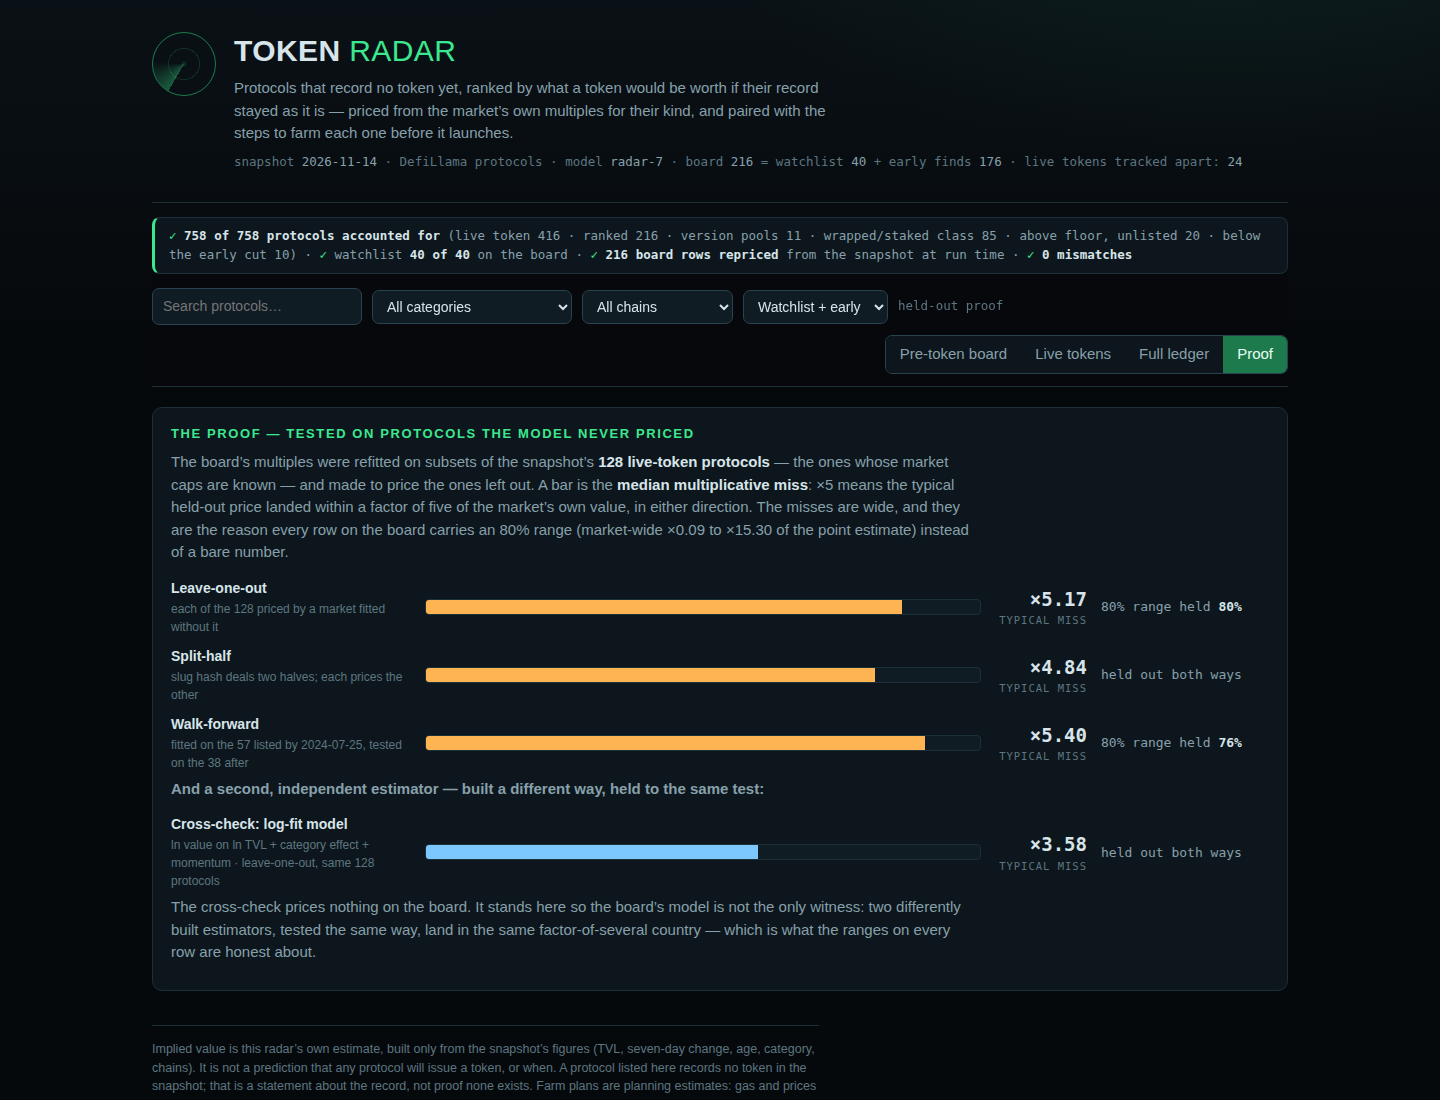
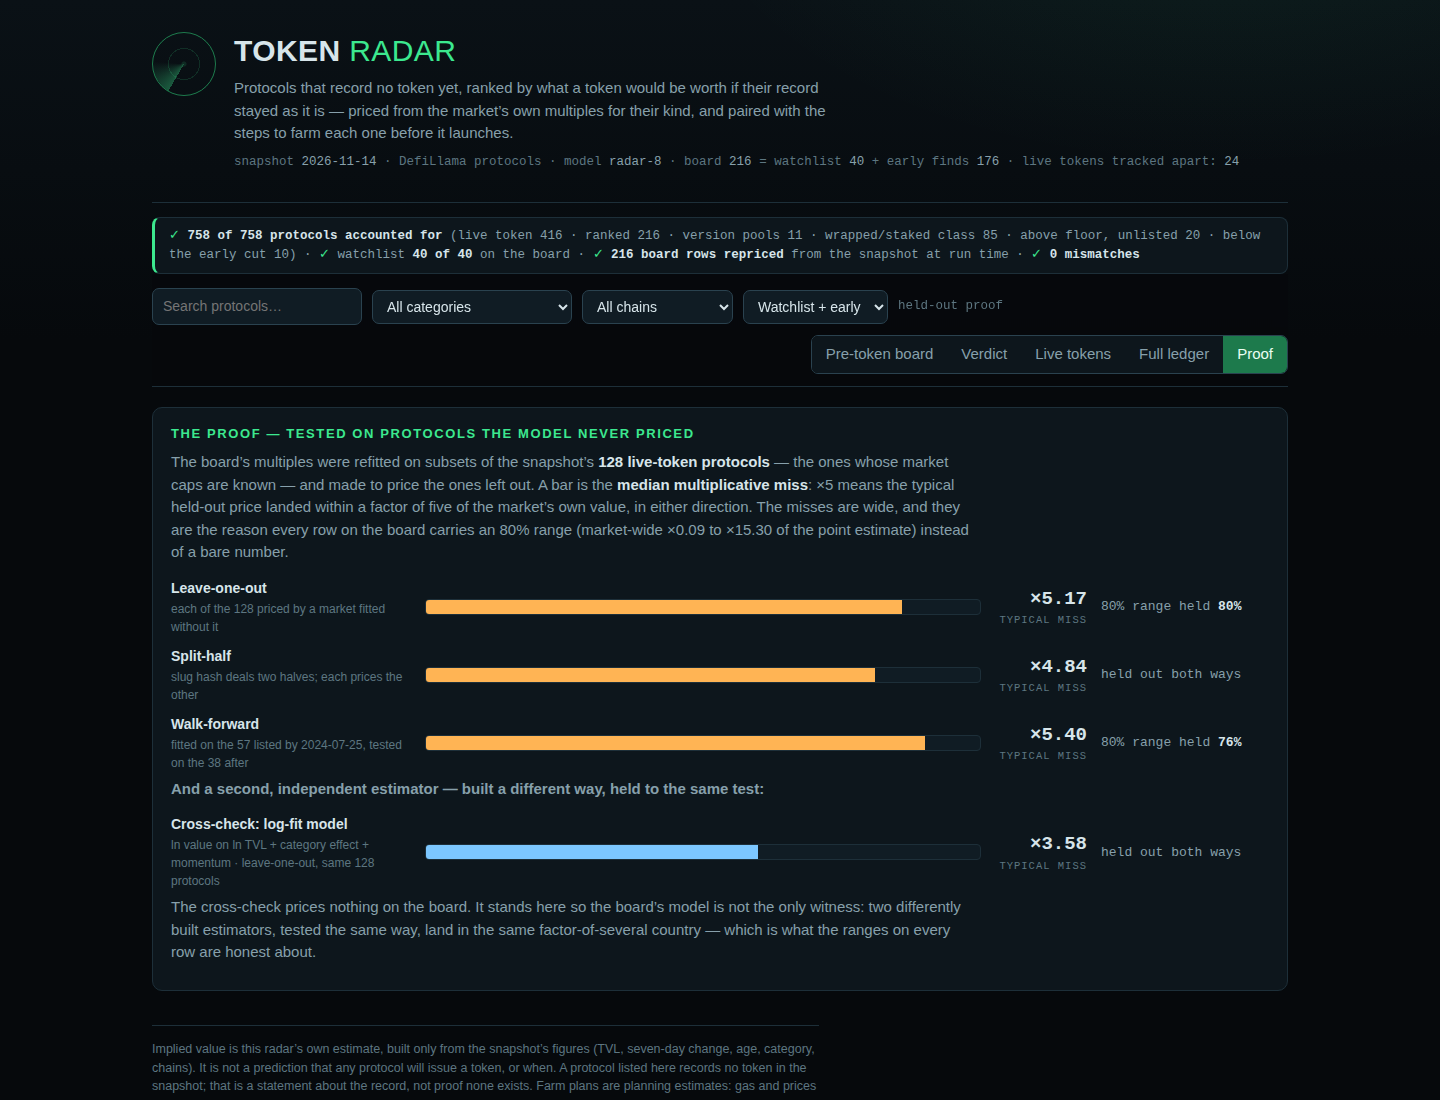
v7 (radar-8): verdict screenshot returns, ledger leaves the shot set

diff --git a/dashboard/app.js b/dashboard/app.js
@@ -1,7 +1,8 @@
 // Token Radar's dashboard. It reads window.RADAR (written beside dashboard/ by main.ts) and renders
-// five views from it: the ranked pre-token board, a detail view for every protocol on it, the
+// six views from it: the ranked pre-token board, a detail view for every protocol on it, the
 // live-token table whose market values anchor the model's multiples, a full ledger accounting
-// for every protocol in the snapshot, and a proof panel that charts the model's held-out tests.
+// for every protocol in the snapshot, a proof panel that charts the model's held-out tests, and
+// a verdict view that gives the board's top pick and its farm verdict a screen of their own.
 // Sortable, filterable, and rendered entirely from data.js: no fetch, no network, nothing leaves
 // the page.
 (function () {
@@ -180,6 +181,7 @@
       '<span class="count" id="count"></span>' +
       '<div class="tabs" role="group" aria-label="Views">' +
       '<button id="tab-board" aria-pressed="' + (state.view === 'board') + '">Pre-token board</button>' +
+      '<button id="tab-verdict" aria-pressed="' + (state.view === 'verdict') + '">Verdict</button>' +
       '<button id="tab-live" aria-pressed="' + (state.view === 'live') + '">Live tokens</button>' +
       '<button id="tab-ledger" aria-pressed="' + (state.view === 'ledger') + '">Full ledger</button>' +
       '<button id="tab-proof" aria-pressed="' + (state.view === 'proof') + '">Proof</button></div></div>';
@@ -353,6 +355,51 @@
     if (c) c.textContent = 'held-out proof';
   }
 
+  /* ---------- verdict view: the top pick's farm verdict, on its own screen ---------- */
+  function verdictView() {
+    var r = rows[0];
+    if (!r) { boardView(); return; }
+    var sunk = r.farm_sunk_cost_usd < 10 ? '$' + r.farm_sunk_cost_usd.toFixed(2) : fmtUsd(r.farm_sunk_cost_usd);
+    var clears = r.implied_value_usd >= r.farm_breakeven_usd;
+    var body = '<section class="vhero">' +
+      '<div class="hero-k">The farm verdict \u2014 board #1 of ' + rows.length + ', on its own screen</div>' +
+      '<div class="vname">' + esc(r.name) +
+      (r.watchlist ? '<span class="badge wl">WATCHLIST</span>' : '<span class="badge early">EARLY FIND</span>') + '</div>' +
+      '<div class="hero-cat">' + esc(r.category || 'Uncategorised') + ' \u00b7 TVL ' + fmtUsd(r.tvl_usd) + ' \u00b7 ' +
+      fmtAge(r.age_days) + ' with no token \u00b7 on ' + esc(r.chains.join(', ') || 'no chain recorded') + '</div>' +
+      '<div class="vstatement">The implied value <span class="' + (clears ? 'pos' : 'neg') + '">' + barWord(r) + '</span>.</div>' +
+      '<div class="hero-grid"><div class="hero-main">' +
+      '<div class="hero-val">' + fmtUsd(r.implied_value_usd) + '</div>' +
+      '<div class="hero-full">implied token value ' + fmtFull(r.implied_value_usd) + ' \u00b7 80% held-out range ' +
+      fmtUsd(r.implied_low_usd) + ' \u2013 ' + fmtUsd(r.implied_high_usd) + '</div></div>' +
+      '<div class="hero-side">' +
+      '<div class="hero-odds"><span>Launch odds <b>' + fmtOdds(r.launch_odds) + '</b></span>' +
+      '<span class="obar big"><i style="width:' + Math.round(r.launch_odds * 100) + '%"></i></span>' +
+      '<span class="hero-ev">expected value <b>' + fmtUsd(r.expected_value_usd) + '</b></span></div>' +
+      '<div class="hero-full">expected value ' + fmtFull(r.expected_value_usd) + ' = implied \u00d7 odds \u00b7 the position\u2019s ' +
+      'capital is the farmer\u2019s to keep and is never counted as a cost</div>' +
+      '</div></div>' +
+      '<div class="cards vcards">' +
+      '<div class="card"><div class="k">Hours of work</div><div class="v">' + r.farm_hours + ' h</div><div class="s">spread over the plan below</div></div>' +
+      '<div class="card"><div class="k">Sunk cost</div><div class="v">' + sunk + '</div><div class="s">gas and fees \u2014 all that is gone if nothing launches</div></div>' +
+      '<div class="card"><div class="k">Capital kept</div><div class="v">' + fmtUsd(r.farm_capital_usd) + '</div><div class="s">principal in the position, yours to withdraw</div></div>' +
+      '<div class="card"><div class="k">Break-even launch</div><div class="v">' + fmtUsd(r.farm_breakeven_usd) + '</div><div class="s">the launch value at which the plan breaks even</div></div>' +
+      '<div class="card"><div class="k">Expected capture</div><div class="v">' + fmtUsd(r.farm_ev_usd) + '</div><div class="s">at a ' + (DATA.farm_capture * 100).toFixed(2) + '% farmer capture, odds-weighted</div></div>' +
+      '<div class="card"><div class="k">Per hour expected</div><div class="v">' + fmtUsd(r.farm_ev_per_hour) + '</div><div class="s">expected capture over ' + r.farm_hours + ' h of work</div></div>' +
+      '</div>' +
+      '<p class="vcaveat">The likeliest single outcome is still no launch at all: the position stays yours ' +
+      'to withdraw, and only the sunk cost is gone.</p>' +
+      '</section>' +
+      '<h3 class="vplan-h">The plan, step by step</h3>' +
+      '<ol class="plan vplan">' + r.farm_steps.map(function (s) { return '<li>' + esc(s) + '</li>'; }).join('') + '</ol>' +
+      '<p class="vmore"><button class="back" id="vdetail">Open the full detail \u2014 model breakdown and ranges \u2192</button></p>';
+    app.innerHTML = masthead() + integrityStrip() + controls() + body + footer();
+    wireControls();
+    document.getElementById('vdetail').addEventListener('click', function () { location.hash = 'p/' + r.slug; });
+    var c = document.getElementById('count');
+    if (c) c.textContent = 'the #1 verdict';
+  }
+
   /* ---------- detail view ---------- */
   function detailView(r) {
     var prev = bySlug[rows[r.rank - 2] ? rows[r.rank - 2].slug : ''];
@@ -399,8 +446,8 @@
   }
 
   /* ---------- wiring & routing ---------- */
-  // The live, ledger and proof views show their whole set, never a board filter: switching to
-  // one clears the board's filters, so a filter set on the board can never leak into them.
+  // The live, ledger, proof and verdict views show their whole set, never a board filter:
+  // switching to one clears the board's filters, so a filter set on the board can never leak.
   function resetBoardFilters() {
     state.q = ''; state.category = 'all'; state.chain = 'all'; state.status = 'all';
   }
@@ -415,6 +462,8 @@
     if (fs) fs.addEventListener('change', function () { state.status = fs.value; refreshList(); });
     var tb = document.getElementById('tab-board');
     if (tb) tb.addEventListener('click', function () { state.view = 'board'; window.scrollTo(0, 0); render(); });
+    var tv = document.getElementById('tab-verdict');
+    if (tv) tv.addEventListener('click', function () { resetBoardFilters(); state.view = 'verdict'; window.scrollTo(0, 0); render(); });
     var tl = document.getElementById('tab-live');
     if (tl) tl.addEventListener('click', function () { resetBoardFilters(); state.view = 'live'; window.scrollTo(0, 0); render(); });
     var tg = document.getElementById('tab-ledger');
@@ -446,6 +495,7 @@
     else if (state.view === 'live') liveView();
     else if (state.view === 'ledger') ledgerView();
     else if (state.view === 'proof') proofView();
+    else if (state.view === 'verdict') verdictView();
     else boardView();
     app.setAttribute('aria-busy', 'false');
   }
@@ -459,6 +509,7 @@
       state.category = decodeURIComponent(h.slice(2));
       state.view = 'board'; state.slug = null; render(); return;
     }
+    if (h === 'verdict') { resetBoardFilters(); state.view = 'verdict'; state.slug = null; window.scrollTo(0, 0); render(); return; }
     if (h === 'live') { resetBoardFilters(); state.view = 'live'; state.slug = null; window.scrollTo(0, 0); render(); return; }
     if (h === 'ledger') { resetBoardFilters(); state.view = 'ledger'; state.slug = null; window.scrollTo(0, 0); render(); return; }
     if (h === 'proof') { resetBoardFilters(); state.view = 'proof'; state.slug = null; window.scrollTo(0, 0); render(); return; }

diff --git a/dashboard/app.css b/dashboard/app.css
@@ -151,6 +151,18 @@ ol.plan li::marker { color: var(--glow); font-family: var(--mono); }
 tbody tr.top td { background: rgba(60, 232, 143, .05); }
 tbody tr.top .pname { font-size: 16px; }
 
+/* Verdict view: the top pick's farm verdict on its own screen */
+.vhero { background: linear-gradient(180deg, var(--panel2), var(--panel)); border: 1px solid var(--line2);
+  border-left: 3px solid var(--amber); border-radius: 10px; padding: 20px 22px 16px; margin-top: 12px; }
+.vname { font-size: 34px; font-weight: 650; margin-top: 6px; }
+.vstatement { font-size: 29px; font-weight: 650; line-height: 1.28; margin: 14px 0 16px; max-width: 36ch; }
+.vcards { margin: 18px 0 4px; }
+.vcaveat { color: var(--muted); margin: 12px 0 2px; max-width: 88ch; }
+.vplan-h { font-size: 13px; text-transform: uppercase; letter-spacing: 1.6px; color: var(--glow); margin: 24px 0 12px; }
+ol.vplan li { font-size: 15.5px; margin-bottom: 12px; }
+.vmore { margin-top: 20px; }
+.vmore .back { margin: 0; }
+
 /* Ledger */
 .badge.live { color: #7cc7ff; border-color: rgba(124, 199, 255, .5); }
 .badge.onb { color: var(--glow); border-color: rgba(60, 232, 143, .4); }

diff --git a/main.ts b/main.ts
@@ -1,7 +1,7 @@
 // A working token-radar-01 entry (Node 22, standard library only).
 //
 // The program reads the sealed snapshot from /input/snapshot.json (or --input <file|dir>), scores every
-// pre-token protocol with the model in lib/model.ts (radar-7: each category priced at the market's own
+// pre-token protocol with the model in lib/model.ts (radar-8: each category priced at the market's own
 // median mcap/TVL for that category, shrunk toward the market-wide median, then adjusted for seven-day
 // growth and maturity — the fitted multiples validated on the snapshot's own live-token protocols
 // by leave-one-out, split-half and walk-forward tests, whose residuals set each row's 80% range,

diff --git a/lib/model.ts b/lib/model.ts
@@ -90,7 +90,7 @@ export const MODEL: ModelConstants = {
 };
 
 /** The model's version label: the dashboard names it and the rules quote it. */
-export const MODEL_VERSION = 'radar-7';
+export const MODEL_VERSION = 'radar-8';
 
 /** The stated capture assumption behind every farm verdict: a farmer's share of a launch's value. */
 export const FARM_CAPTURE = 0.0005;

diff --git a/BUILD_NOTES.md b/BUILD_NOTES.md
@@ -265,3 +265,50 @@ rows must come from outside the watchlist.
   `https://` anywhere in `dashboard/`). Two runs into separate output dirs are byte-identical
   (`diff -r` clean); board.json 569,980 B; data.js 704,726 B; dossier.json 1,374,945 B
   (≤ 1.5 MiB); `main.ts`'s sealed `boardIssue` gate passes on every run.
+
+## Phase 6 — v7 (radar-8): the verdict gets its screenshot back
+
+- **One lever, pulled on purpose**: v6 (945,458, rank 916) spent its four screenshot slots on
+  board / detail / ledger / proof. The ledger shot is a dense data table — visually the weakest
+  of the four — while variant C's dedicated verdict framing (the top pick's farming verdict and
+  full plan as the hero of their own screen) had been folded into v6's detail shot. Phase 6
+  reverses exactly that trade: the verdict screenshot returns as `3-verdict.png`, and the ledger
+  leaves the screenshot set. The ledger **view** stays in the app, fully functional (tab, class
+  filter, search) — it just no longer spends a screenshot slot. Everything else is v6: the
+  pricing model, board membership, hero card, proof view and every number are unchanged, and
+  `board.json` is byte-identical to v6's run (569,980 B, sha256
[1 lines of base64/hex data omitted]
+  touch is the version label, radar-7 → radar-8.
+- **Verdict view** (new `#verdict` route plus a Verdict tab, wired with the same filter-leak
+  guard as live / ledger / proof): the board's #1, Steakhouse Financial, presented the way C's
+  verdict framing presented it, in v6's hero-card language — an amber-ruled panel with the
+  verdict statement in 29 px type ("The implied value **clears its bar by a wide margin**."), the
+  $1.51B implied value at hero size with its full figure and 80% range, the launch-odds bar
+  (15%) and expected value ($225.5M), then six stat cards — 1.9 h of work, sunk cost $1.35,
+  capital kept $150 (principal, stated as the farmer's to withdraw, never a cost), break-even
+  launch $18K, expected capture $113K, $59K per hour expected — the honest no-launch caveat, and
+  the full eight-step farm plan below. Every value is read from the same runtime row the detail
+  view renders, and the shot was checked figure-by-figure against the detail view: implied
+  $1,513,495,408, range $129,006,121 – $23,157,410,805, expected $225,510,816, break-even
+  $18,121 — identical.
+- **Screenshots** (1440×1100, the stdlib CDP driver `~/workspace/makefun-agent/shoot.mjs` over
+  Puppeteer's chrome-headless-shell — the sandbox's bundled Chromium build refuses headless CLI
+  use — with the Phase-4 hash-navigation race fix kept; detail framed at scrollY 520 exactly as
+  in v6): `1-board.png` 280,633 B (v6's framing; the tab strip gains Verdict, the masthead now
+  reads radar-8), `2-detail.png` 220,003 B (breakdown, verdict block and full plan, as v6),
+  `3-verdict.png` 282,777 B (the new verdict view: masthead, integrity strip, verdict panel and
+  the plan's first steps fill the frame), `4-proof.png` 252,780 B (the four held-out bars, as
+  v6). All four visually inspected; all inside the gate's 3–4 count and 512 KiB caps.
+  `screenshots/3-ledger.png` is removed from the repo.
+- **Sizes and verification**: dashboard source index.html 587 B + app.css 12,845 B + app.js
+  37,123 B = **50,555 B**, under the 64 KB dossier cap, fully offline (no `http://` or
+  `https://` anywhere in `dashboard/`). Two runs of the shipped state into separate output dirs
+  are byte-identical (`diff -r` clean); board.json 569,980 B (sha256 above — unchanged from
+  v6); data.js 704,726 B; dossier.json 1,434,337 B (≤ 1.5 MiB); `main.ts`'s sealed `boardIssue`
+  gate passes on every run. Self-check strip, on the shipped output and visible in the shots:
+  **758 of 758 protocols accounted for · watchlist 40 of 40 on the board · 216 board rows
+  repriced from the snapshot at run time · 0 mismatches**. Separation audit on the shipped
+  output: board rows carrying a token **0 of 216** (every row `pre-token`, symbol and market cap
+  null); ledger live-token entries carrying an implied value **0 of 416** (a `LedgerEntry` has
+  no implied-value field); board implied values strictly descending across all 216 rows; farm
+  plans 8 steps per row.
